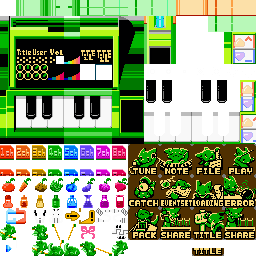
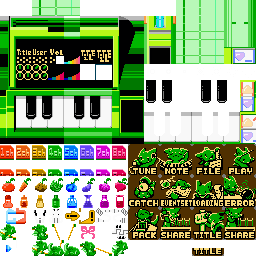
五線譜のレイアウト変更 描画負荷の軽減 サブモジュール更新

Changed region(s): [[0.0625, 0.0, 1.0, 0.25]]

diff --git a/LitroKeyboard.js b/LitroKeyboard.js
@@ -2,7 +2,7 @@
  * Litro Keyboard Interface
  * Since 2013-11-19 07:43:37
  * @author しふたろう
- * ver 0.11.08
+ * ver 0.11.09
  */
 
 //環境判定
@@ -814,7 +814,8 @@ LitroKeyboard.prototype = {
 				keys[name].push(self.frameChunks.length);
 				self.frameChunks.push(self.makeChipChunk(name, self.frameSprites[name], makeRect(rr)));
 			}
-			, fspr = this.frameSprites
+			, fspr
+			, swaps = []
 			, ms = function(id){return makeSprite(img, id);}
 			,bftop = 14
 			,bdtop = 22
@@ -950,8 +951,8 @@ LitroKeyboard.prototype = {
 			leftDispEdge2: mccf(msq('9+2:2+1'), 0, 13),
 			
 		//上半分
-			noteRollLeft: mccf(msq('(1+2:0+1)^6'), 36, 2),
-			eventRollRight: mccf(msq('11+2:0+1'), 36, 0),
+			noteRollLeft: mccf(msq('(14+2:0+1)^6'), 36, 2),
+			eventRollRight: mccf(msq('14+2:2+1'), 36, 0),
 			
 		// //下半分
 			leftFrame: mccf(msq('0+1:1+8'), 0, bftop),
@@ -992,7 +993,7 @@ LitroKeyboard.prototype = {
 			boardFrameRight_1d: mccf(msq('3+1:5+4'), 34, bdtop),
 			
 			
-			octaveRoll: msq('3+2:0+1'),
+			octaveRoll: msq('14+2:1+1'),
 			
 			// '0:0 1:1')),
 			
@@ -1004,6 +1005,17 @@ LitroKeyboard.prototype = {
 			envelopeBeam1: ms(73),
 			envelopeBeam2: ms(74),
 			envelopeBeam_s: ms(75),
+			
+			//ScoreBoardMSQ
+			scoreTune4: msq('27 29*3 (28 29*3)*4'),
+			scoreBoard4: msq(
+				'59 61*3 (60 61*3)*4!;'
+				+'43 45*3 (44 45*3)*4!;'
+				+'27 29*3 (28 29*3)*4!;'
+				+ '59 61*3 (60 61*3)*4!;'
+				+ '59 61*3 (60 61*3)*4!;'
+				+ '11 13*3 (12 13*3)*4!;'
+			),
 			
 			//ScoreBoard
 			noteStart: ms(5),
@@ -1017,6 +1029,26 @@ LitroKeyboard.prototype = {
 			eventSpace: ms(15),
 			
 		};
+		fspr = this.frameSprites;
+		['scoreTune4', 'eventRollRight'].forEach(function(s, i){
+			var spr = fspr[s].sprites == null ? fspr[s] : fspr[s].sprites;
+			swapColorSpriteRecursive(spr, 'push'
+				, [88, 248, 152, 255], [248, 216, 120, 255]);
+			swapColorSpriteRecursive(spr, 'push'
+				, [184, 248, 184, 255], [252, 224, 168, 255]);
+			swapColorSpriteRecursive(spr, 'push'
+				, [0, 168, 0, 255], [168, 16, 0, 255]);
+			swapColorSpriteRecursive(spr, 'push'
+				, [88, 216, 84, 255], [252, 160, 68, 255]);
+			swapColorSpriteRecursive(spr, 'start');
+			
+			if(fspr[s].sprites == null){
+				fspr[s] = spr;
+			}else{
+				fspr[s].sprites = spr;
+			}
+		});
+		
 	},
 	
 	initControllDisp: function(){
@@ -1861,6 +1893,19 @@ LitroKeyboard.prototype = {
 			this.status_on[channel] = chr;
 		}
 		
+		//仮使用
+		if(channel == editch){
+			this.setEventChange(editch, this.makeEventset('note', code + (octave * this.octaveInKeys)));
+		}
+		
+		this.refreshCurrentNote();
+		
+		
+		if(this.editMode == 'catch'){
+			this.moveCatchCursor(null, false);
+			return;
+		}
+				
 		// this.player.setPreSwapTune(channel, this.player.getTuneParams(editch));
 		this.sePlayCode(channel, code, octave);
 		
@@ -1868,10 +1913,7 @@ LitroKeyboard.prototype = {
 			this.onkeyEvent(chr);
 		}
 		
-		//仮使用
-		if(channel == editch){
-			this.setEventChange(editch, this.makeEventset('note', code + (octave * this.octaveInKeys)));
-		}
+
 		this.drawNoteScroll(seekPage);
 		if(pos < cellhto(2) ){
 			this.drawNoteScroll(seekPage - 1);
@@ -1880,7 +1922,6 @@ LitroKeyboard.prototype = {
 		}
 		this.drawNoteScroll(null, true);
 		
-		this.refreshCurrentNote();
 
 	},
 	
@@ -1910,6 +1951,23 @@ LitroKeyboard.prototype = {
 		// this.litroSound.offNoteFromCode(channel);
 		// this.player.channel[channel].refChannel = -1;
 		this.sePlayer.fadeOutNote(channel, paramChannel);
+	},
+	/**
+	 * setDirect inpput Octave level 
+	 * return @bool refreshDrawEnable
+	 */
+	setOctave: function(level)
+	{
+		level = level <= OCTAVE_MAX ? level : OCTAVE_MAX;
+		level = level > 0 ? level : 0;
+		
+		if(this.octaveLevel == level){
+			return false;
+		}
+		this.octaveLevel = level;
+		this.drawOctaveMeter(this.octaveLevel);
+		this.drawEventsetBatch();
+		return true;
 	},
 	
 	incOctave: function()
@@ -2404,15 +2462,21 @@ LitroKeyboard.prototype = {
 		
 		// console.log(moveTime, divTime);
 		switch(dir){
-			case 'up': cur.y = (cur.y + limit - 1) % limit;
-					// this.drawNoteMenu();
-					// this.drawNoteCursor();
+			case 'up':
+					if(ext){
+						this.incOctave();
+						break;
+					}
+					cur.y = (cur.y + limit - 1) % limit;
 					this.drawMenuList(list);
 					this.drawMenuListCursor(list, cur.y);
 					break;
-			case 'down': cur.y = (cur.y + 1) % limit;
-					// this.drawNoteMenu();
-					// this.drawNoteCursor();
+			case 'down':
+					if(ext){
+						this.decOctave();
+						break;
+					}
+					cur.y = (cur.y + 1) % limit;
 					this.drawMenuList(list);
 					this.drawMenuListCursor(list, cur.y);
 					break;
@@ -2542,6 +2606,7 @@ LitroKeyboard.prototype = {
 			, prevNote
 			, ch = this.editChannel()
 			, player = this.player
+			, octave
 			// , player = this.sePlayer
 		;
 		
@@ -2556,10 +2621,12 @@ LitroKeyboard.prototype = {
 						this.decNotekeys(this.catchEventset);
 						this.drawEventsetBatch();
 						break;
-					case 'left': this.channelMove(dir);
-									break;
-					case 'right': this.channelMove(dir);
-									break;
+					case 'left':
+						this.channelMove(dir);
+						break;
+					case 'right':
+						this.channelMove(dir);
+						break;
 				}
 				
 			}else{
@@ -2581,6 +2648,7 @@ LitroKeyboard.prototype = {
 							break;
 			case 'right': eventset = player.searchNearForward(ch, player.noteSeekTime, -1, this.catchType, ignore);
 							break;
+			default: eventset = player.searchNearForward(ch, player.noteSeekTime, -1, this.catchType);
 		}
 		this.drawMenu(this.editMode);
 
@@ -2616,9 +2684,19 @@ LitroKeyboard.prototype = {
 			}
 			
 			this.catchEventset[eventset.type][eventset.time] = eventset;
+			this.drawSelectEvents(this.selectNote);
+			
+			if(eventset.type == 'note'){
+				octave = (eventset.value / KEY_FREQUENCY[0].length) | 0;
+				if(octave > this.octaveLevel){
+					octave = octave > this.octaveLevel + 2 ? octave - 2 : this.octaveLevel;
+				}
+				if(this.setOctave(octave)){
+					return eventset;
+				};
+			}
 			
 			// console.log(this.catchEventset);
-			this.drawSelectEvents(this.selectNote);
 			this.drawEventsetBatch();
 		}else{
 			eventset = player.searchNearBack(ch, player.noteSeekTime, 0, this.catchType);
@@ -4093,34 +4171,39 @@ LitroKeyboard.prototype = {
 	drawScoreBoard: function(bottom)
 	{
 		var scr = scrollByName('bg3')
-			, i, xc, s
+			// , i, xc, s
 			, xCells = (DISPLAY_WIDTH / cellhto(1)) | 0
 			, len
-			, line5 = [2, 4, 7, 9, 10]
-			, spaces = [5, 12]
+			// , line5 = [2, 4, 7, 9, 10]
+			// , spaces = [5, 12]
 			, btmOffset
 			, sprites = this.frameSprites
-			, dfunc = function(yLine, startSprite, periodSprite, lineSprite){
-				for(xc = 0; xc < xCells; xc += 2){
-					s = xc % 5 == 0 ? periodSprite : lineSprite;
-					if(xc == 0){s = startSprite;}
-					scr.drawSprite(s, cellhto(xc), cellhto(yLine) + btmOffset);
-				}
-			}
+			// , dfunc = function(yLine, startSprite, periodSprite, lineSprite){
+				// for(xc = 0; xc < xCells; xc += 2){
+					// s = xc % 5 == 0 ? periodSprite : lineSprite;
+					// if(xc == 0){s = startSprite;}
+					// scr.drawSprite(s, cellhto(xc), cellhto(yLine) + btmOffset);
+				// }
+			// }
 			;
-			
 		bottom == bottom == null ? false : bottom;
 		btmOffset = bottom ? (DISPLAY_HEIGHT / 2) | 0 : 0;
-		len = line5.length;
-		for(i = 0; i < len; i++){
-			dfunc(line5[i], sprites.noteStart, sprites.notePeriod, sprites.noteLine);
-		}
-		len = spaces.length;
-		for(i = 0; i < len; i++){
-			dfunc(spaces[i], sprites.noteSpaceStart, sprites.noteSpacePeriod, sprites.noteSpace);
-		}
-		dfunc(0, sprites.eventSpaceStart, sprites.eventSpacePeriod, sprites.eventSpace);
 		
+		scr.drawSpriteChunk(sprites.scoreTune4, 0, btmOffset);
+		scr.drawSpriteChunk(sprites.scoreBoard4, 0, cellhto(2) + btmOffset);
+		// return;
+// 		
+// 		
+		// len = line5.length;
+		// for(i = 0; i < len; i++){
+			// dfunc(line5[i], sprites.noteStart, sprites.notePeriod, sprites.noteLine);
+		// }
+		// len = spaces.length;
+		// for(i = 0; i < len; i++){
+			// dfunc(spaces[i], sprites.noteSpaceStart, sprites.noteSpacePeriod, sprites.noteSpace);
+		// }
+		// dfunc(0, sprites.eventSpaceStart, sprites.eventSpacePeriod, sprites.eventSpace);
+// 		
 	},
 	
 	// drawTitleCursor: function()
